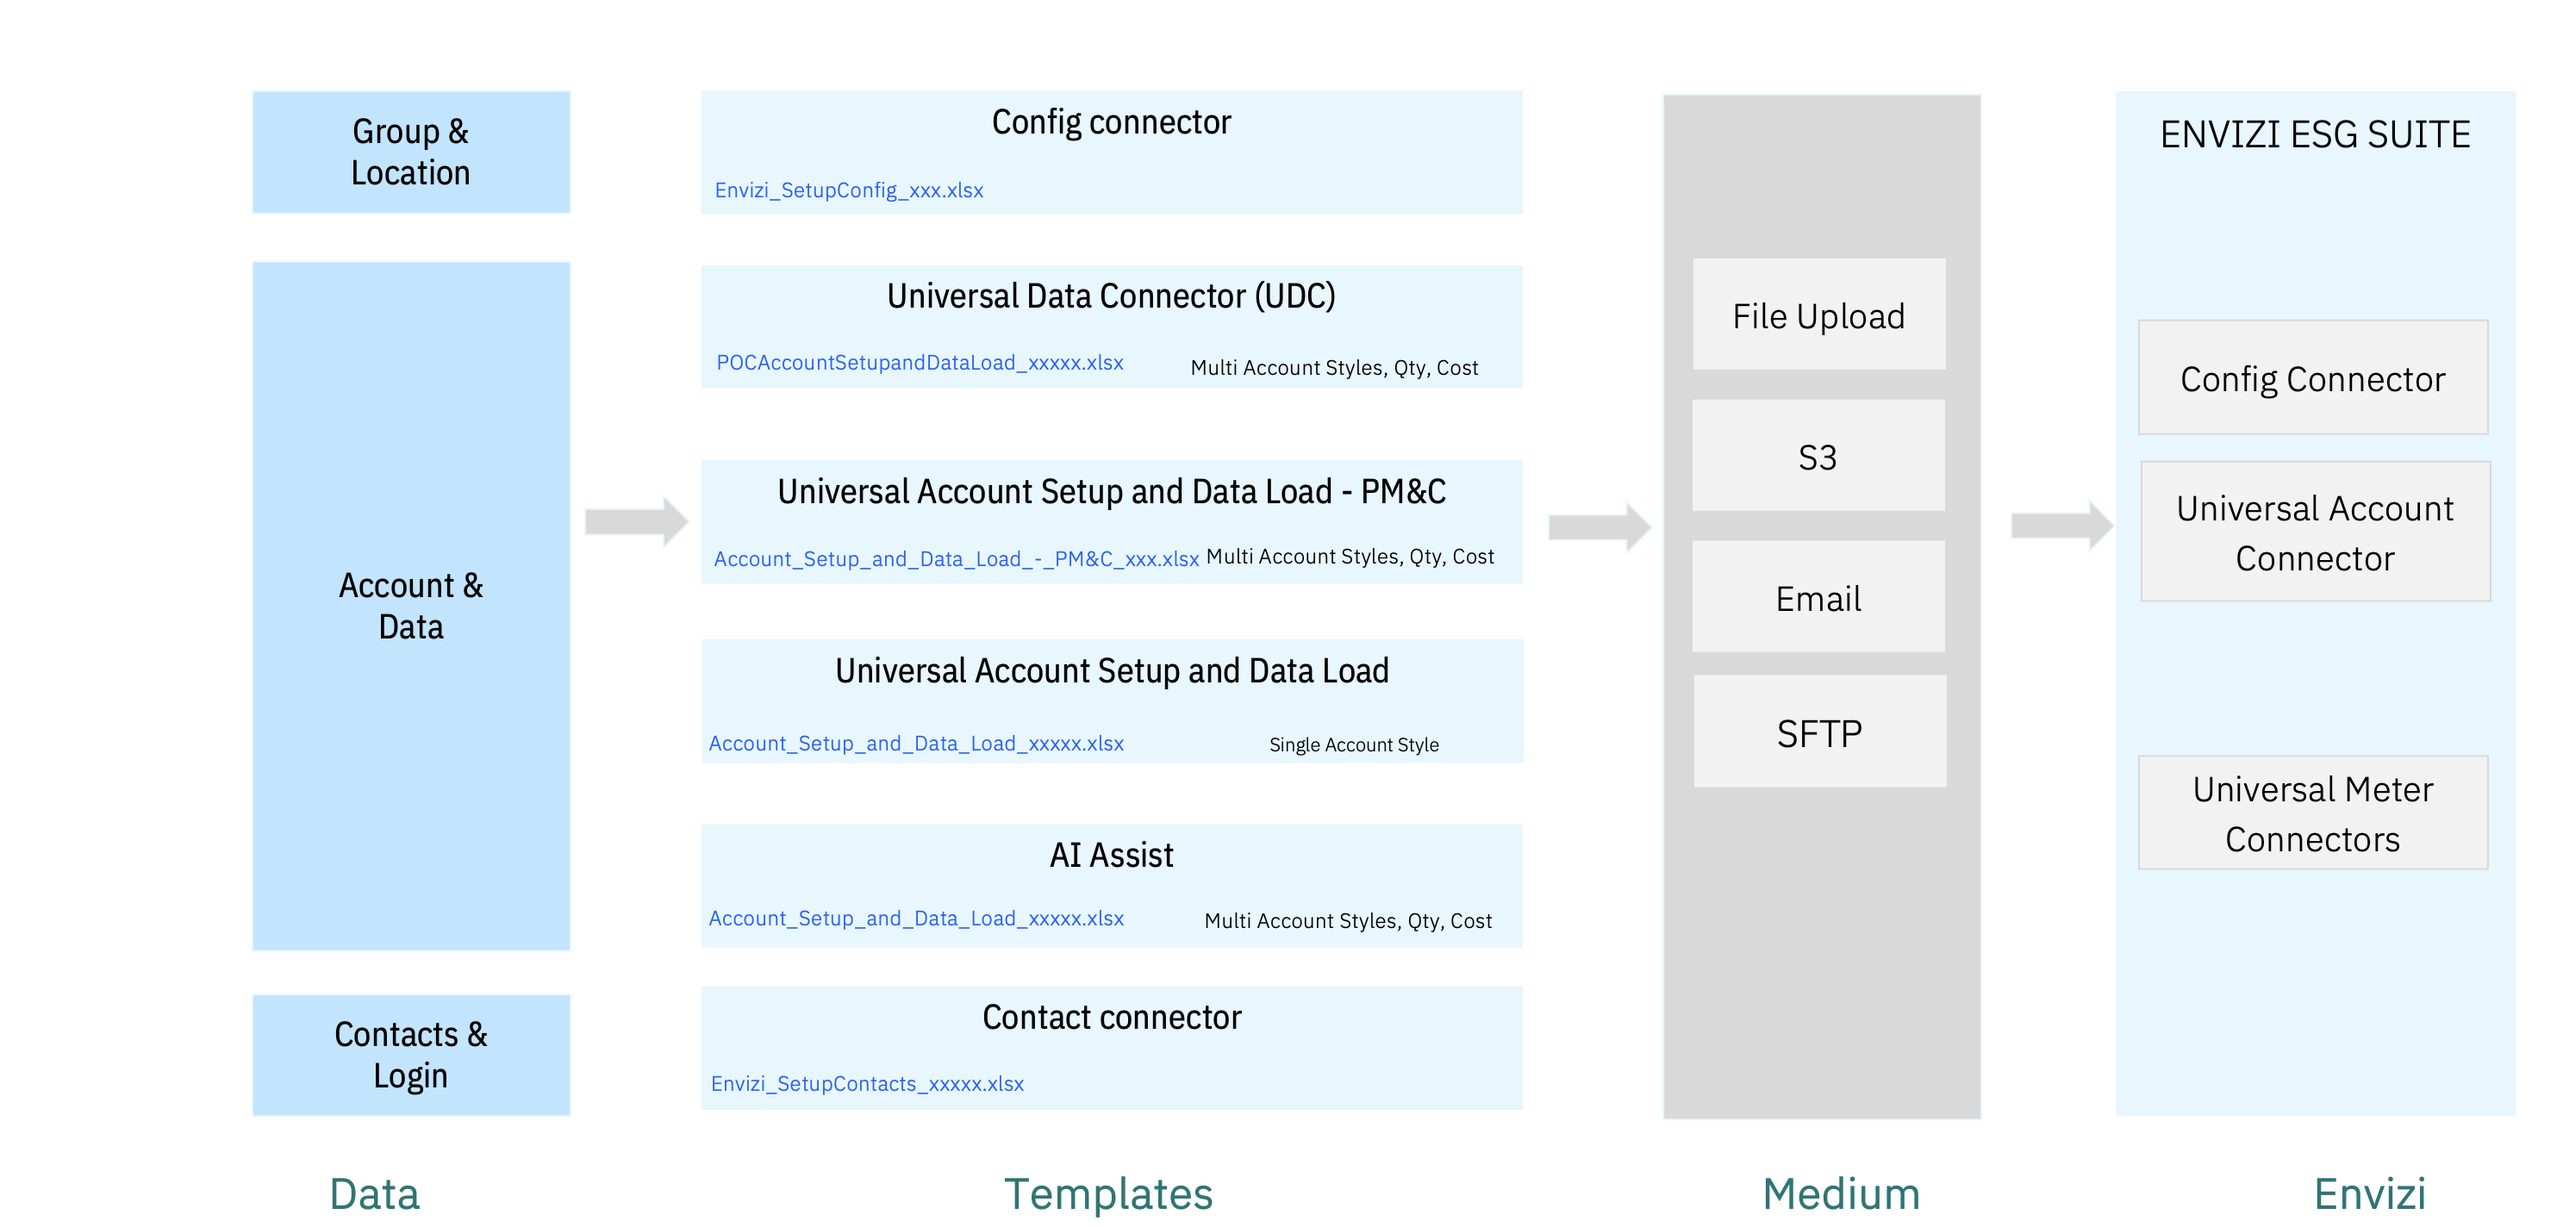
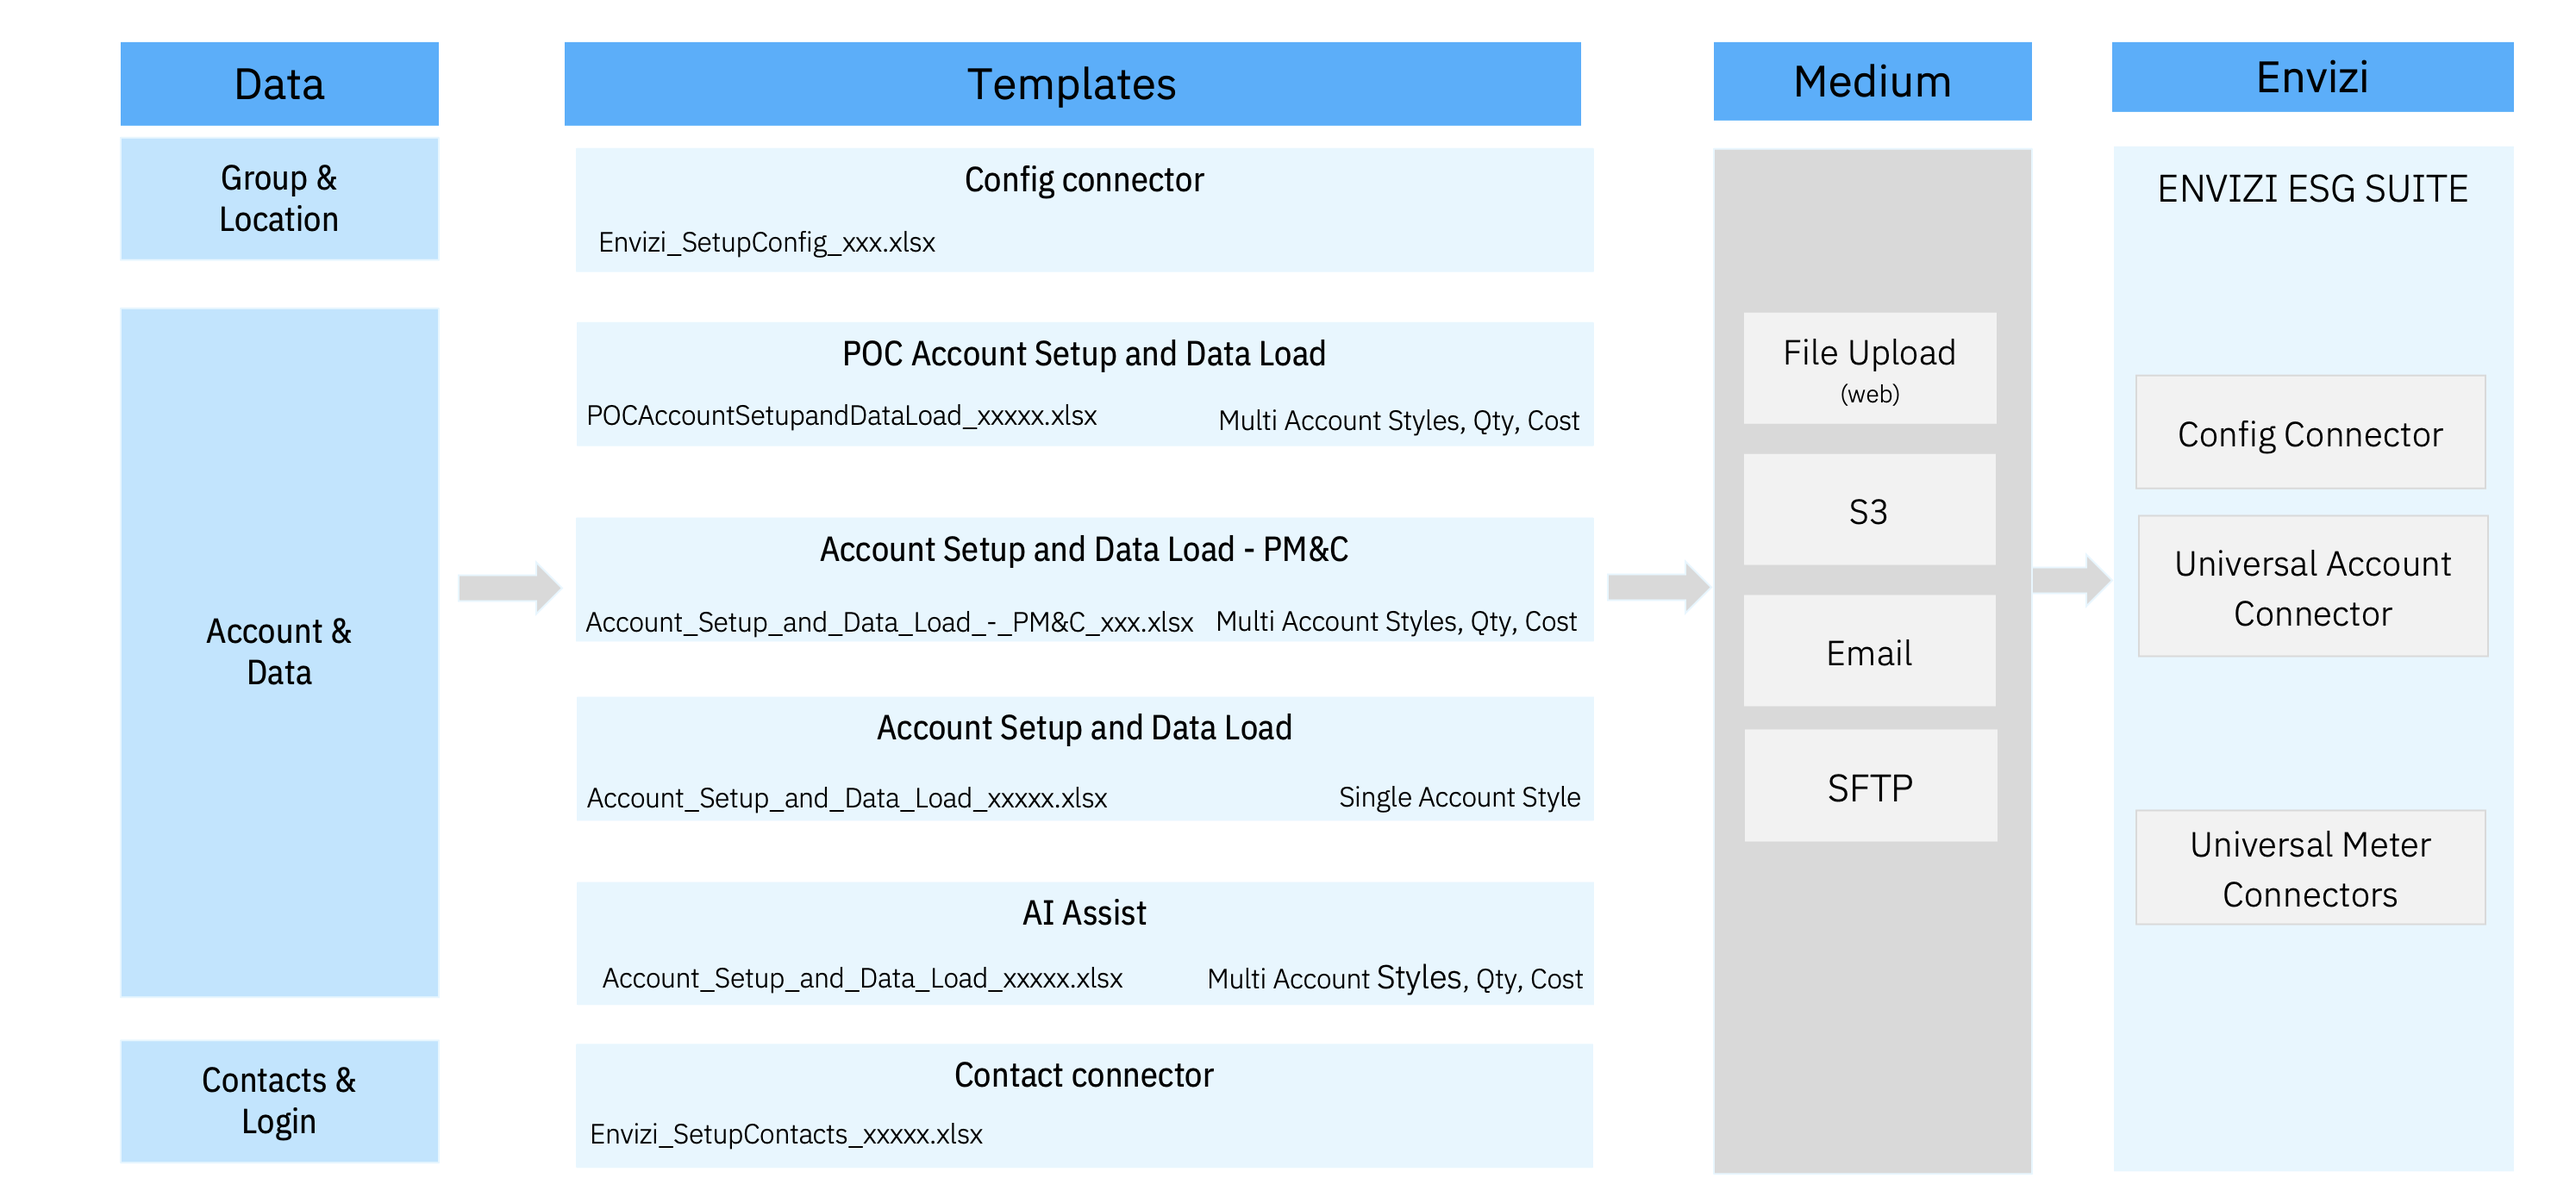
update

diff --git a/204-connectors/readme.md b/204-connectors/readme.md
@@ -23,7 +23,7 @@
         <td><a href="../121-Load-data-using-Universal-Account-Conenctor">Link</a></td>
     </tr>
     <tr>
-        <td>Universal Data Connector (UDC)</td>
+        <td>POC Account Setup and Data Load</td>
         <td>Accounts & Data</td>
         <td>.xlsx</td>
         <td>POCAccountSetupandDataLoad_xxxxx.xlsx</td>
@@ -32,7 +32,7 @@
         <td><a href="../121-Load-data-using-Universal-Account-Conenctor">Link</a></td>
     </tr>
     <tr>
-        <td>Universal Account Setup and Data Load - PM&C</td>
+        <td>Account Setup and Data Load - PM&C</td>
         <td>Accounts & Data</td>
         <td>.xlsx, csv</td>
         <td>Account_Setup_and_Data_Load_-_PM&C_xxxxx.xlsx</td>
@@ -76,15 +76,19 @@
 
 <img src="images/01-config-connector.png">
 
-#### 2. Universal Data Connector (UDC)
+#### 2. POC Account Setup and Data Load
 
 <img src="images/02-udc.png">
 
-#### 3. Universal Account Setup and Data Load - PM&C
+#### 3. Account Setup and Data Load - PM&C
+
+This is also called as  `Universal Account Setup and Data Load - PM&C`
 
 <img src="images/03-pmc.png">
 
-#### 4. Universal Account Setup and Data Load
+#### 4. Account Setup and Data Load
+
+This is also called as  `Universal Account Setup and Data Load`
 
 <img src="images/04-asdl.png">
 

diff --git a/145-Creating-Custom-power-reports/readme.md b/145-Creating-Custom-power-reports/readme.md
@@ -433,7 +433,7 @@ The custom report created is available exclusively for the current user.
 
 1. Right click on the report.
 
-2. Choose `Share`
+2. Choose `Sharing`
 
 <img src="images/26-share-2.png">
 
@@ -446,9 +446,6 @@ The report is available for all the users now.
 <img src="images/26-share-4.png">
 
 </details>
-
-
-
 
 
 ## Reference
